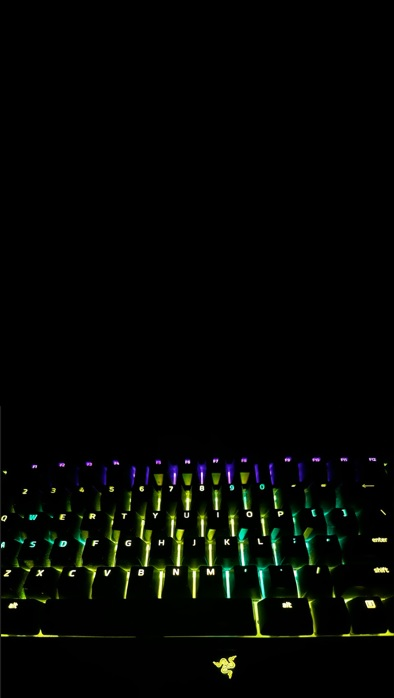
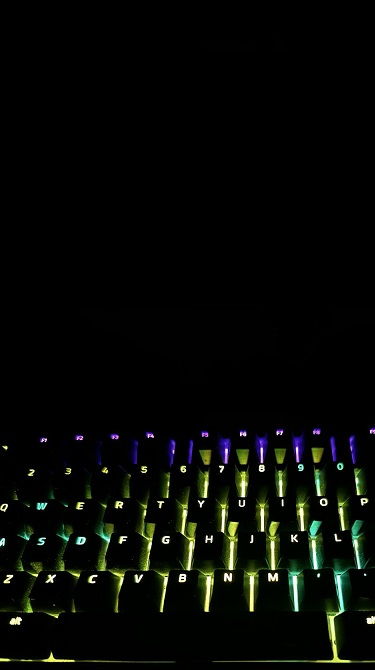
Add all background images from landing page

diff --git a/src/Styles/Global.styles.js b/src/Styles/Global.styles.js
@@ -1,7 +1,7 @@
 import styled, { createGlobalStyle } from "styled-components";
 import bgHomeMobile from "../Assets/Home-Page/background-keys-mobile.jpg";
 import bgHomeTablet from "../Assets/Home-Page/background-keys-tablet.jpg";
-import bgHomeDesktop from "../Assets/Home-Page/background-home-desktop.jpg";
+import bgHomeDesktop from "../Assets/Home-Page/background-keys-desktop.jpg";
 import bgOtherMobile from "../Assets/Portfolio-Page/background-destination-mobile.jpg";
 import bgOtherTablet from "../Assets/Portfolio-Page/background-destination-tablet.jpg";
 import bgOtherDesktop from "../Assets/Portfolio-Page/background-destination-desktop.jpg";
